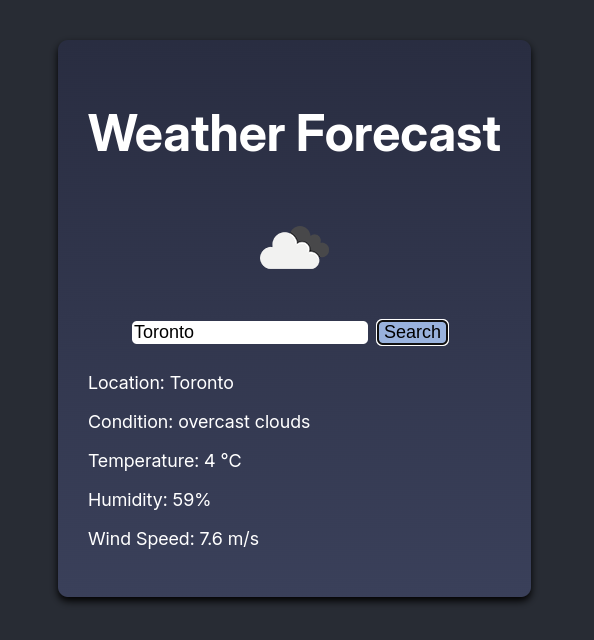
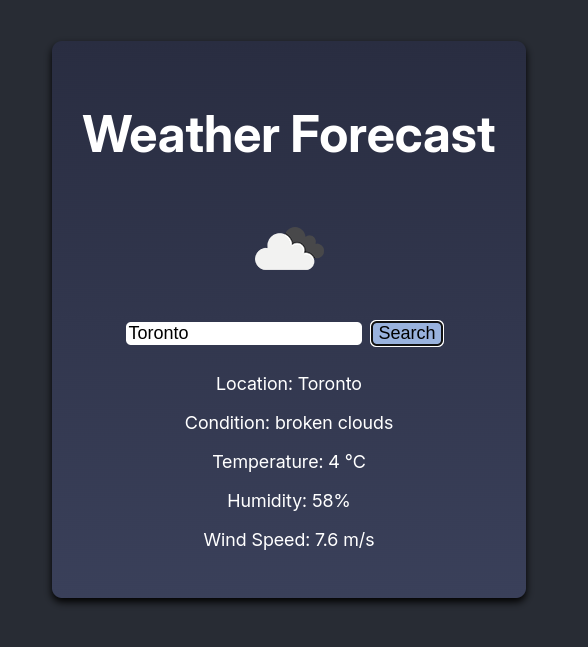
center aligned weather description text

diff --git a/src/App.css b/src/App.css
@@ -42,7 +42,7 @@
 }
 
 .descriptionContainer p {
-  text-align: left;
+  text-align: center;
   font-size: large;
 }
 
